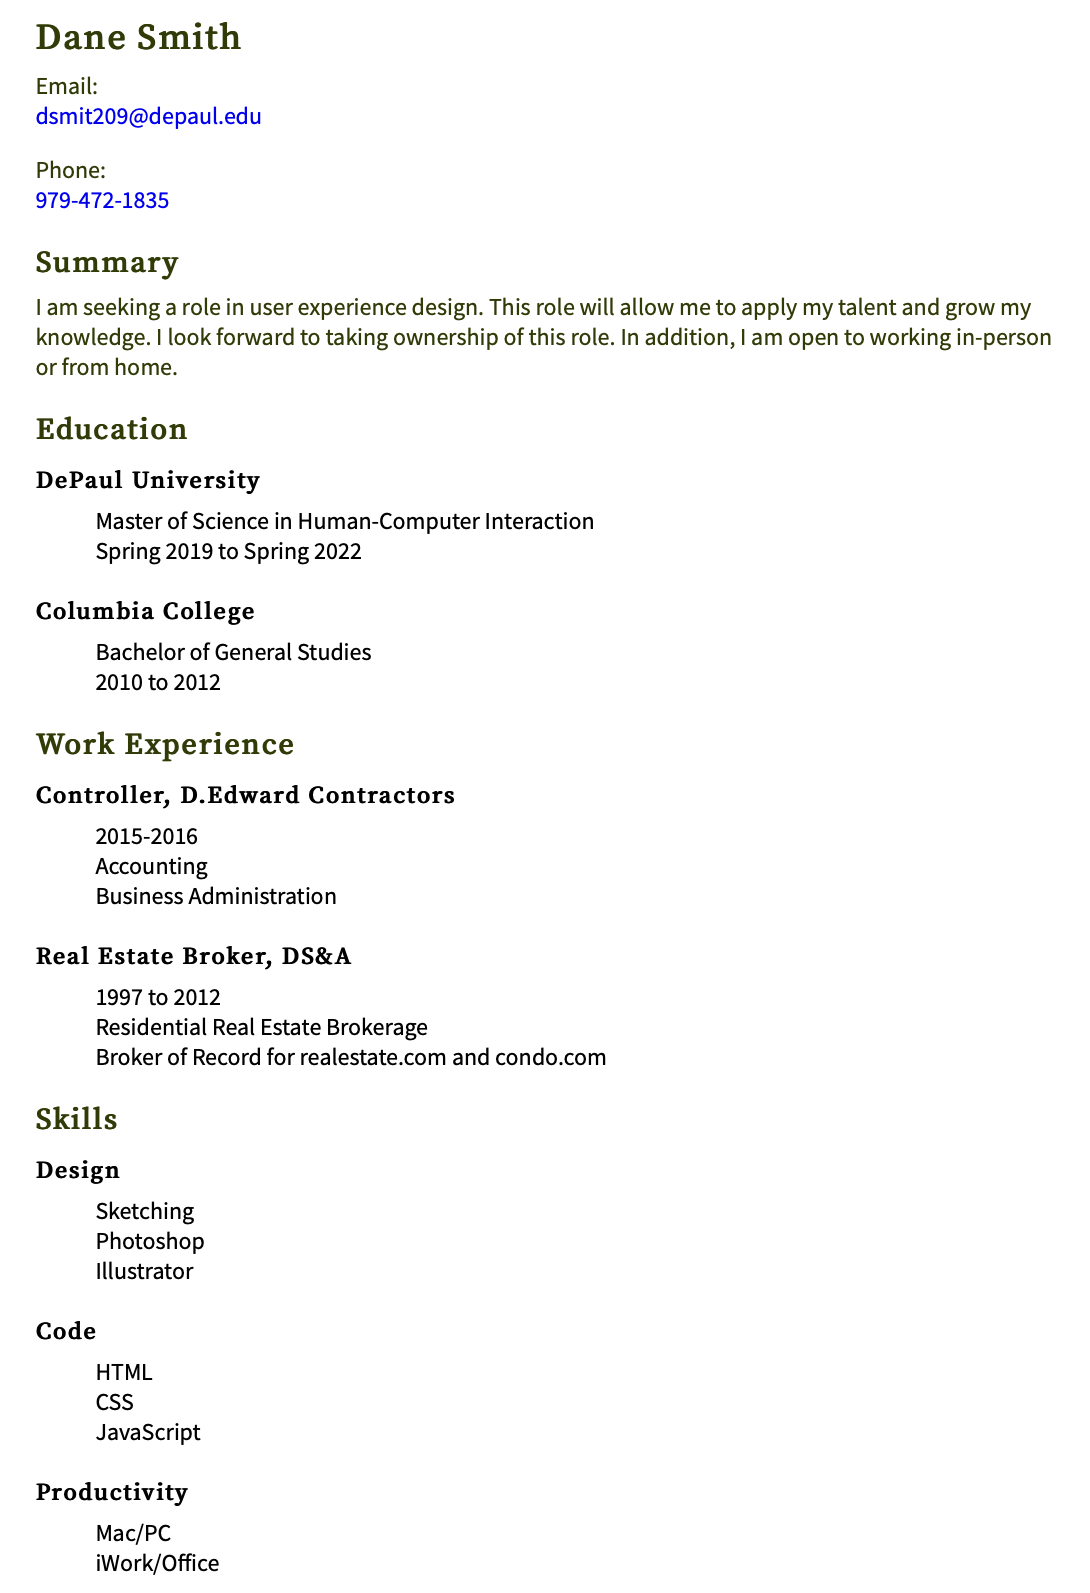
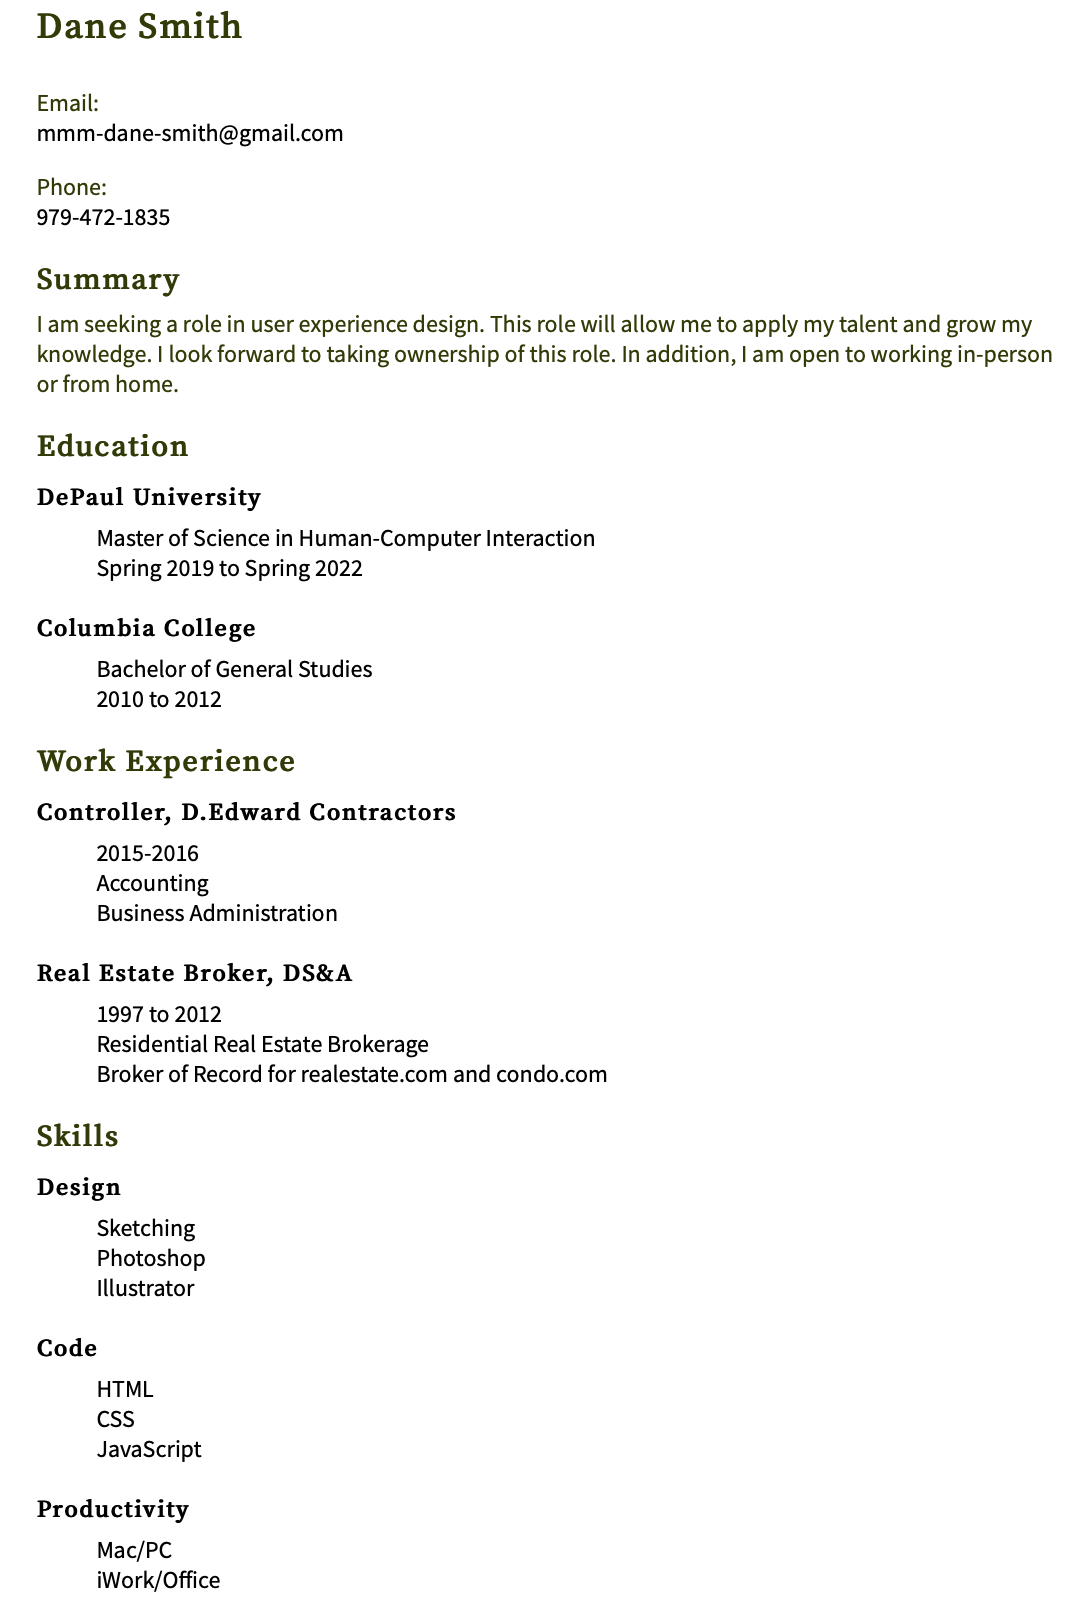
Add files via upload
Rev

Changed region(s): [[0.0312, 0.0, 0.967, 0.8305], [0.0312, 0.8613, 0.2183, 1.0], [0.0312, 0.8305, 0.0936, 0.8613]]

diff --git a/fp_resume.html b/fp_resume.html
@@ -43,8 +43,9 @@
           <h2 class="margin-2">
             Dane Smith
           </h2>
+          <br>
           <p>Email:<br>
-            <a href="mailto:dsmit209@depaul.edu">dsmit209@depaul.edu</a>
+            <a href="mailto:mmm-dane-smith@gmail.com">mmm-dane-smith@gmail.com</a>
           </p>
           <p>Phone:<br>
             <a href="tel:1-979-472-1835">979-472-1835</a>

diff --git a/css/style.css b/css/style.css
@@ -20,6 +20,9 @@
   body {
     background-color: whitesmoke;
   }
+
+  a {color: black;
+  }
   
   div#main-div {
     position: static;
